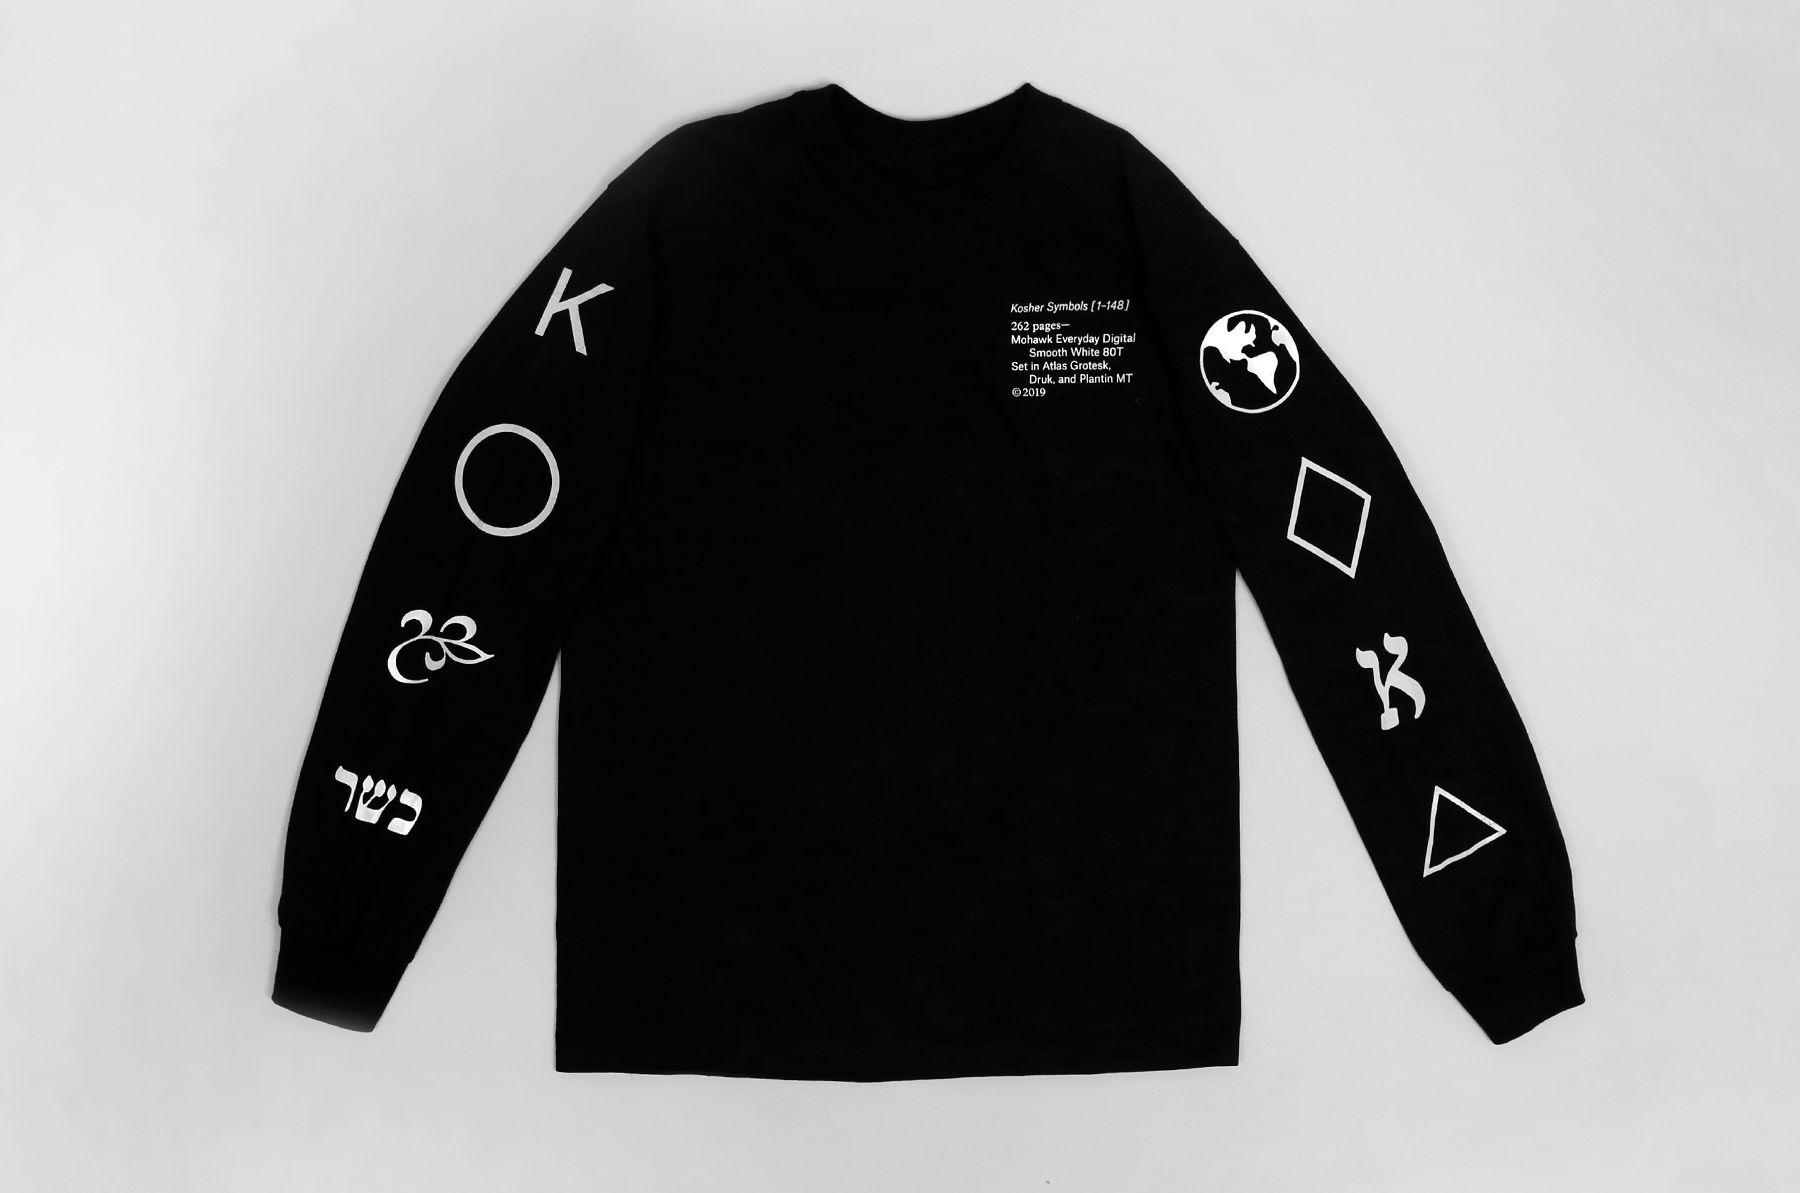
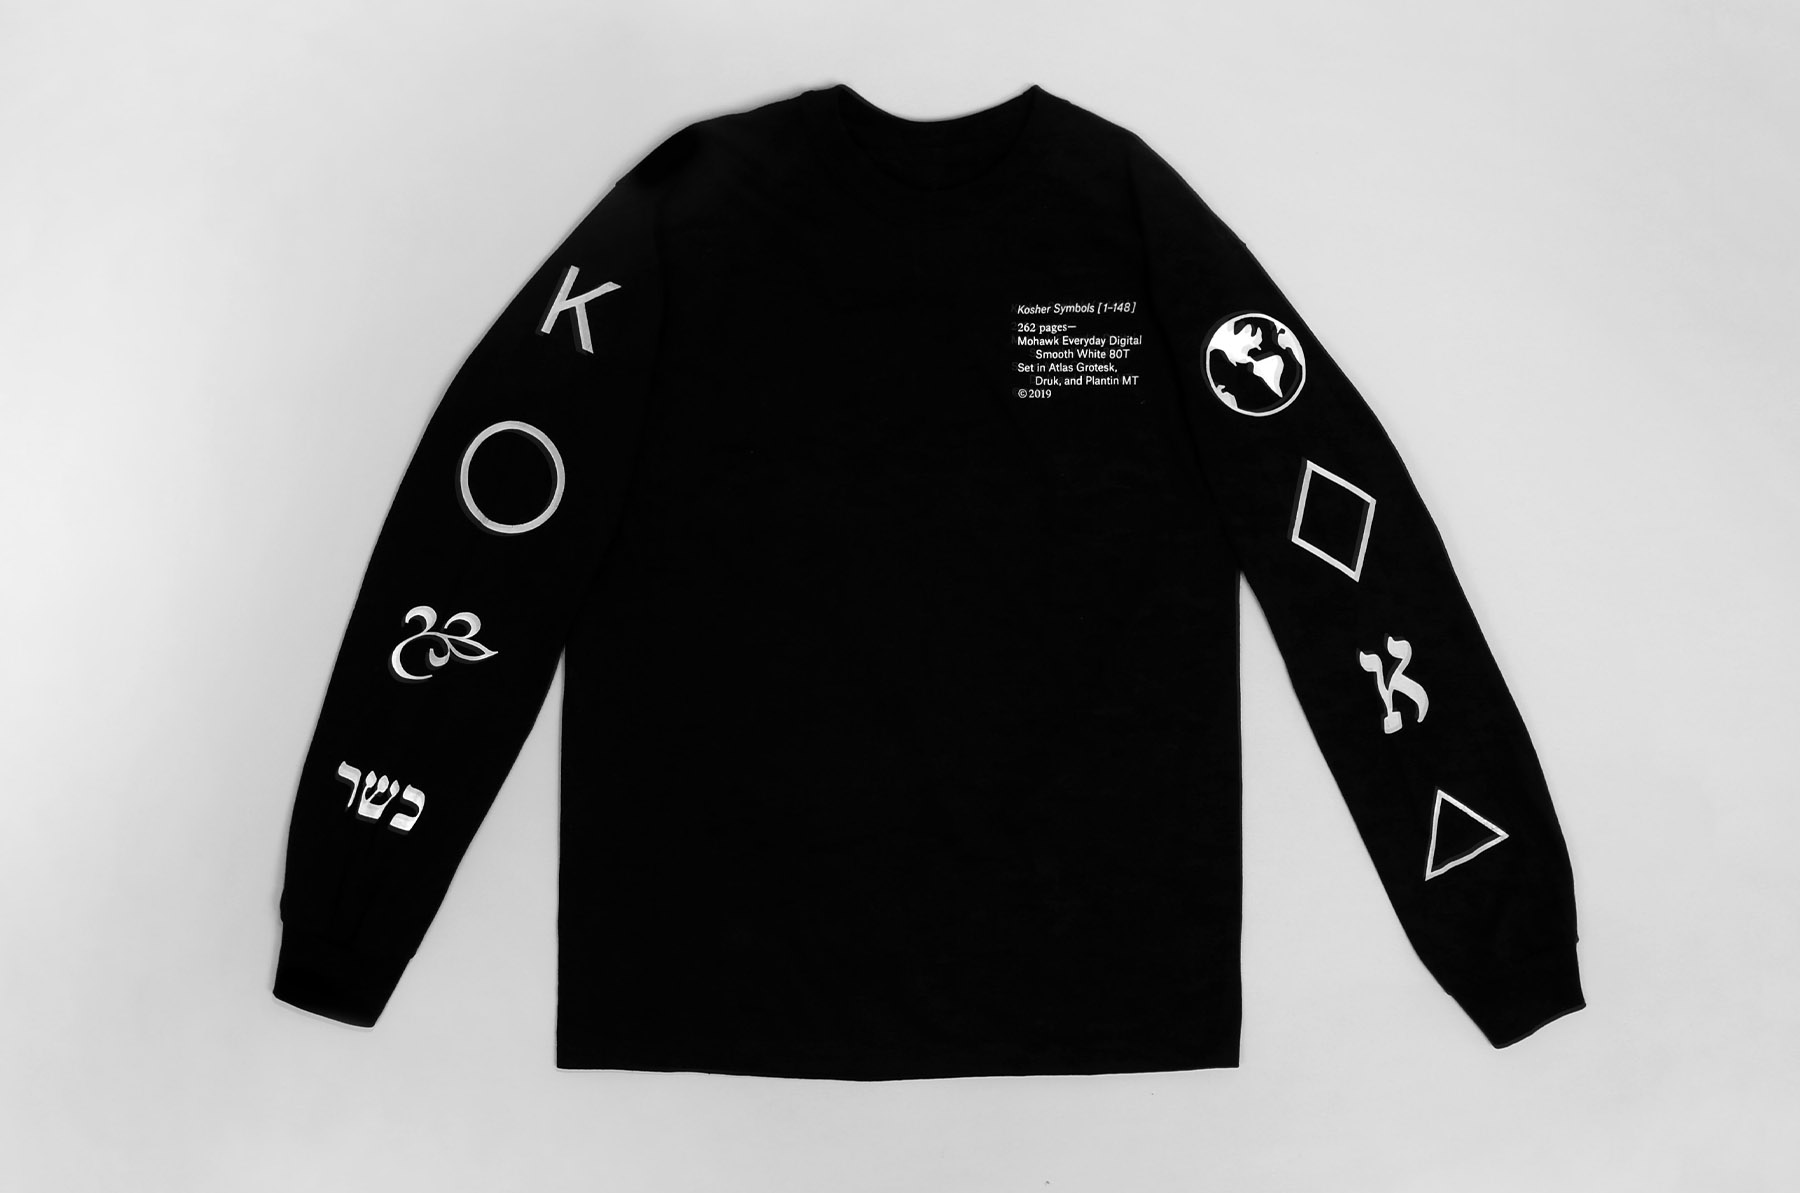
finalize T shirt add

diff --git a/index.html b/index.html
@@ -78,7 +78,9 @@ $('.cycle-slideshow').cycle({
   <div class="caption"><div><span class="title">Kosher Symbols [1–148], 2019</span><p class="mobile"><span class="italic">Kosher Symbols [1–148]</span> is a printed catalog and formal exploration of collected kosher certification symbols from around the world. Kosher symbols arose as a direct result of the industrialization of food production in the early twentieth century. This new reality created a need for independent organizations to oversee the food production process to ensure that kosher dietary laws were observed in a factory setting. Thus gave rise to hundreds and then thousands of graphic icons that, when placed on food packaging, indicate the approval and supervision of a specific kosher certification agency. Taken individually, these symbols can seem arbitrary or mundane; yet when viewed as a collection, themes begin to emerge that reflect a collective consciousness about how Jewish designers have chosen to formally represent the values of their culture.</p>
 </div>
 
+
   <div class="mobile">
+  <br>Limited edition shirts were printed in association with the catalog release.
   </div>
 
 </div>
